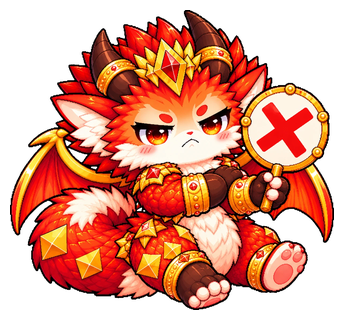
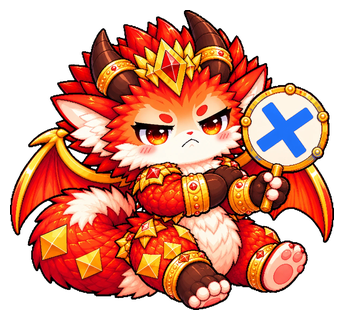
MawKorn: 04 No approved (blue X), 05 Thank you prompt
Claude-Session: https://claude.ai/code/session_01CqN5TM8CtnKZx6KMXb1z93

Changed region(s): [[0.7267, 0.3125, 0.9302, 0.5]]

diff --git a/mangkorn/prompts/05-thank-you.md b/mangkorn/prompts/05-thank-you.md
@@ -1,0 +1,20 @@
+# 05 Thank you
+
+Pose reference: Sheet 3, pose 3 (BOW).
+
+## Prompt
+
+```
+Draw a sticker that means "Thank you very much". The image must contain no words or letters at all.
+Pose: like pose 3 BOW on the attached sticker pose sheet. Mangkorn stands in a 3/4 front view and bows forward politely from the waist, head lowered, one paw on his chest, the other paw at his side. Eyes closed in a gentle, grateful smile with closed mouth, rosy cheeks. Wings folded neatly behind him, tail curled calmly. Two or three small pink hearts floating near his head.
+
+Character: Mangkorn, the chibi red dragon in the attached reference sheets. Keep his design IDENTICAL: cat-like face, amber eyes, small fangs, rosy cheeks, dark brown horns with gold bands, gold crown with a red gem, red scales with gold diamond studs, cream fluffy fur on ears, cheeks, chest and tail, dark brown hand paws, pink-padded feet, red wings with gold edges.
+Style: the same 16-bit pixel art with bold dark outlines, bright saturated colors, cute chibi proportions.
+Output: ONE single sticker image, square 1:1, the character alone, full body, centered, with empty space around him on every side.
+Background: solid flat pure green (#00FF00) everywhere, no shadow, no floor, no gradient. Do not use any green on the character or effects.
+NO white border or sticker outline around him. NO text, NO letters, NO speech bubbles. NO tears.
+```
+
+## After making the image
+
+Attach it in the Claude chat; Claude saves it to `mangkorn/incoming/05-thank-you-v1.png`.

diff --git a/mangkorn/PLAN.md b/mangkorn/PLAN.md
@@ -22,7 +22,8 @@ New chat? Read this whole file first, then continue from **Status**.
 - 01 Hello: v1 had "Hello!" text + white border (removed in code: `tools/make_sticker.py ... --drop 0,0,940,430`) → `mangkorn/stickers/01-hello.png` (370×310). **Approved.**
 - 02 On my way!: **tricycle** version chosen. v3 (fix prompt `prompts/02-on-my-way-fix.md`) fixed the floating rear wheel. Feet stay dark brown on top: that matches `dragon-hungry.png` (brown feet, cream soles with pink pads), so the earlier foot note was wrong. → `mangkorn/stickers/02-on-my-way.png` (324×320). Flying v1 kept as `incoming/02-on-my-way-v1-flying-clean.png`. **Approved.**
 - 03 OK: v1 repeated the Hello pose (rejected); v2 has the sign with a red O → `mangkorn/stickers/03-ok.png` (326×320). **Approved.**
-- 04 No: v1 has a RED X (asked blue), arms crossed instead of palm forward, grumpy face. Processed red version → `stickers/04-no.png`; blue-X version recoloured in code → `incoming/04-no-v1-blue-x.png`. Waiting for the user to choose.
+- 04 No: v1 (grumpy face and crossed arm accepted). X was red; recoloured **blue** in code → `stickers/04-no.png` (344×320). **Approved.** Red version kept in `incoming/04-no-v1-red-x-clean.png`.
+- Next: 05 Thank you prompt ready; waiting for the image.
 - Tool update: stricter green removal + lime-yellow pocket removal; 01–03 re-processed with it.
 
 ## Rules from the user (follow every time)
